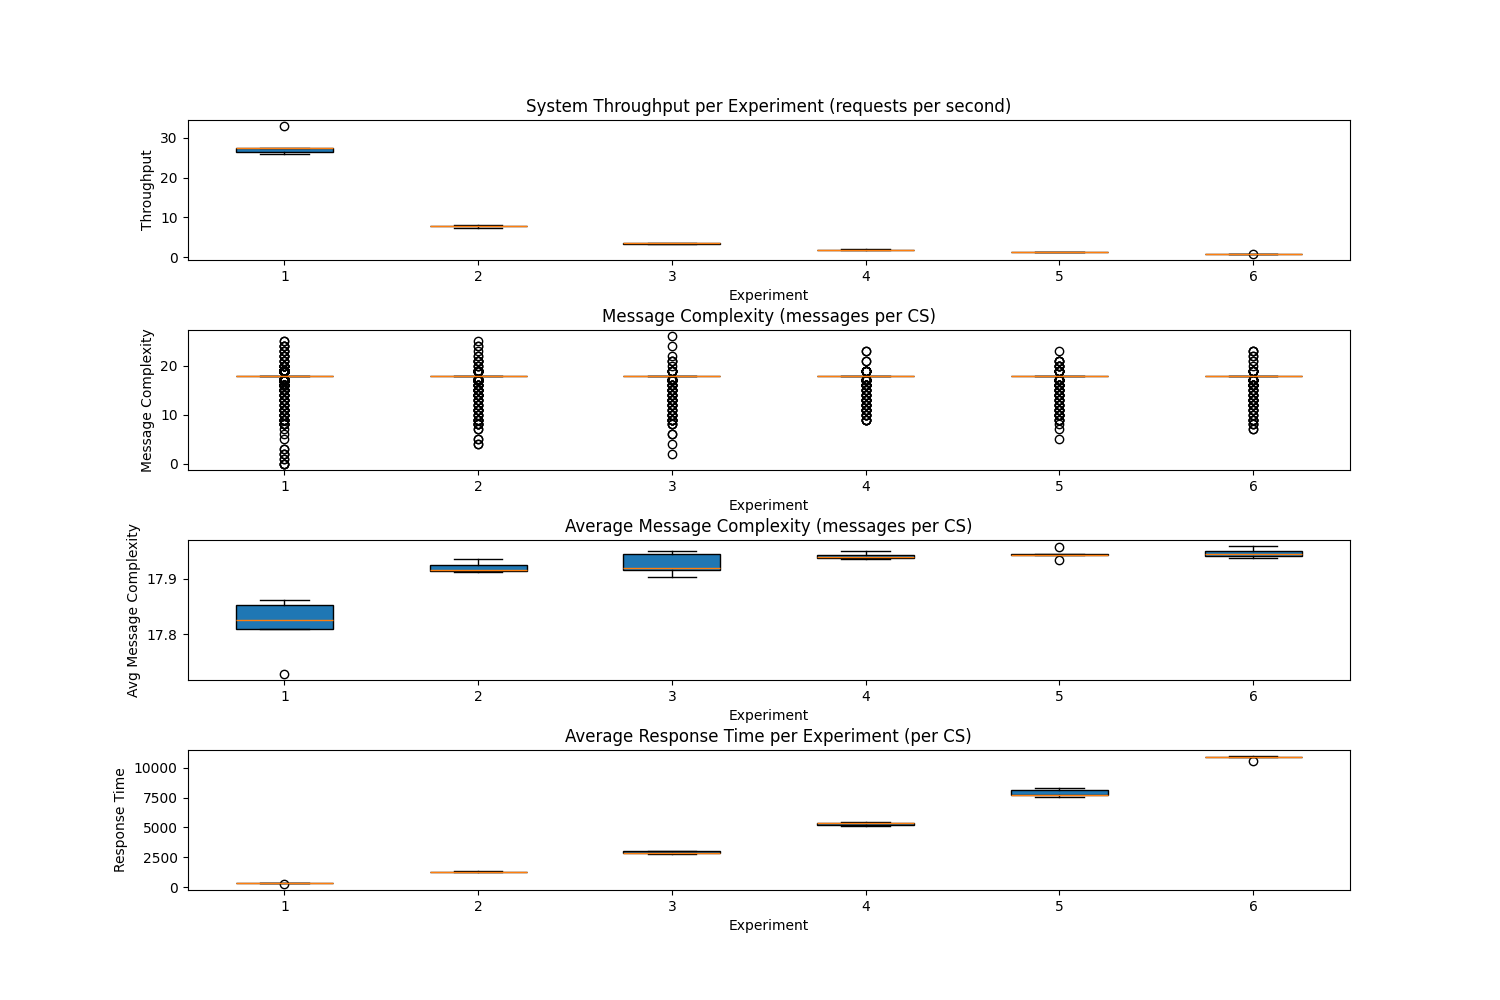
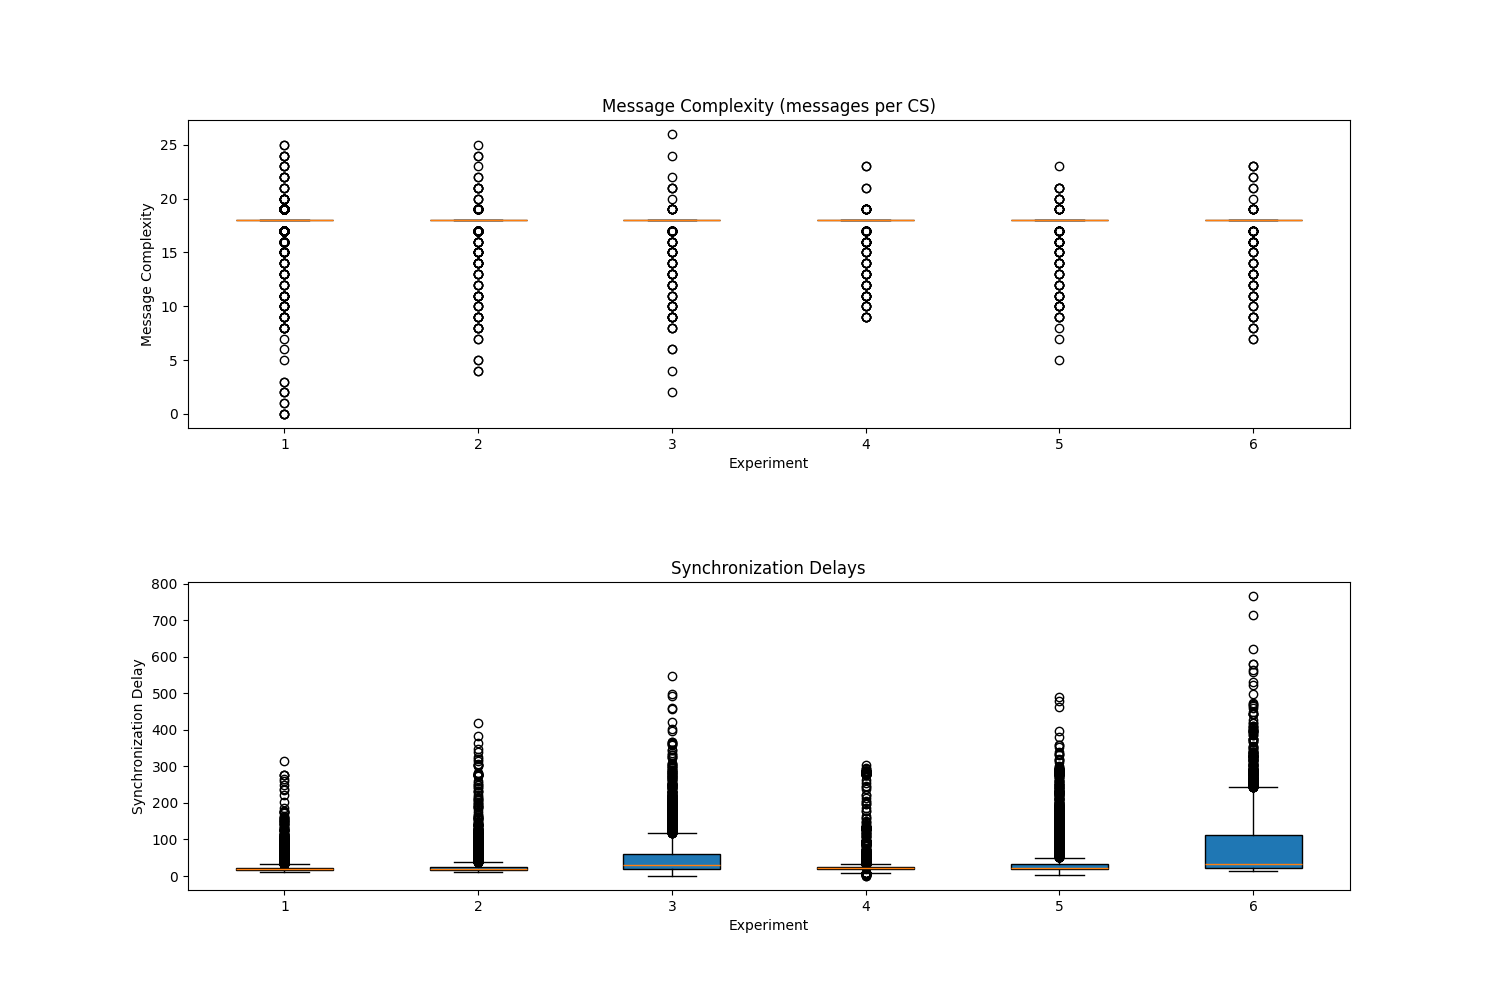
added experiments with varying inter request delay

diff --git a/log_analysis/graph.py b/log_analysis/graph.py
@@ -6,7 +6,8 @@ from collections import defaultdict
 
 def process_file(file_path):
     pattern = (r"Run: (\d+)|System Throughput: ([\d.]+) requests per second|Average Message Complexity: ([\d.]+) "
-               r"messages per CS|Average Response Time: ([\d.]+) milliseconds per CS|Messages: (.+)")
+               r"messages per CS|Average Response Time: ([\d.]+) milliseconds per CS|Messages: (.+)|"
+               r"Average Synchronization Delay: ([\d.]+) milliseconds|SyncDelays: (.+)")
 
     data = defaultdict(dict)
     with open(file_path, 'r') as file:
@@ -24,11 +25,16 @@ def process_file(file_path):
                 elif match.group(5):  # Messages
                     messages = list(map(int, match.group(5).split()))
                     data[current_run]['Messages'] = messages
+                elif match.group(6):  # Average Synchronization Delay
+                    data[current_run]['Average Synchronization Delay'] = float(match.group(6))
+                elif match.group(7):  # Sync delays
+                    delays = list(map(int, match.group(7).split()))
+                    data[current_run]['SyncDelays'] = delays
 
     return data
 
 
-def save_line_charts(_experiment_data):
+def save_line_charts(_experiment_data, xlabel='mean CS execution time'):
     # Extracting metrics from the data
     avg_throughput = [np.mean([run_data['System Throughput'] for run_data in exp_data.values()])
                       for exp_data in _experiment_data]
@@ -36,6 +42,8 @@ def save_line_charts(_experiment_data):
                               for exp_data in _experiment_data]
     avg_response_time = [np.mean([run_data['Average Response Time'] for run_data in exp_data.values()])
                          for exp_data in _experiment_data]
+    avg_synch_delay = [np.mean([run_data['Average Synchronization Delay'] for run_data in exp_data.values()])
+                       for exp_data in _experiment_data]
 
     exps = [10, 100, 250, 500, 750, 1000]
 
@@ -43,30 +51,45 @@ def save_line_charts(_experiment_data):
     plt.figure(figsize=(15, 5))
 
     # System Throughput Line Chart
-    plt.subplot(1, 3, 1)
+    plt.subplot(2, 1, 1)
     plt.plot(exps, avg_throughput, marker='o', color='b')
     plt.title('System Throughput (requests per second)')
-    plt.xlabel('mean CS execution time')
+    plt.xlabel(xlabel)
     plt.ylabel('Throughput')
 
     # Average Message Complexity Line Chart
-    plt.subplot(1, 3, 2)
+    plt.subplot(2, 1, 2)
     plt.plot(exps, avg_message_complexity, marker='o', color='g')
     plt.title('Average Message Complexity (messages per CS)')
-    plt.xlabel('mean CS execution time')
+    plt.xlabel(xlabel)
     plt.ylabel('Message Complexity')
-
-    # Average Response Time Line Chart
-    plt.subplot(1, 3, 3)
-    plt.plot(exps, avg_response_time, marker='o', color='r')
-    plt.title('Average Response Time (per CS)')
-    plt.xlabel('mean CS execution time')
-    plt.ylabel('Response Time')
 
     plt.subplots_adjust(hspace=0.5)
 
     # Save the figure
-    plt.savefig('./results/line_charts.png')
+    plt.savefig('./results/line_charts_1_d.png')
+    plt.close()
+
+    plt.figure(figsize=(15, 5))
+
+    # Average Response Time Line Chart
+    plt.subplot(2, 1, 1)
+    plt.plot(exps, avg_response_time, marker='o', color='r')
+    plt.title('Average Response Time (per CS)')
+    plt.xlabel(xlabel)
+    plt.ylabel('Response Time')
+
+    # Average Sync Delay Line Chart
+    plt.subplot(2, 1, 2)
+    plt.plot(exps, avg_synch_delay, marker='o', color='r')
+    plt.title('Average Synchronization Delay')
+    plt.xlabel(xlabel)
+    plt.ylabel('Synchronization Delay')
+
+    plt.subplots_adjust(hspace=0.5)
+
+    # Save the figure
+    plt.savefig('./results/line_charts_2_d.png')
     plt.close()
 
 
@@ -74,17 +97,8 @@ def save_box_plots(_experiment_data):
     # Creating the box plots
     plt.figure(figsize=(15, 10))
 
-    # System Throughput Box Plot
-    plt.subplot(4, 1, 1)
-    throughput_data = [[run_data['System Throughput'] for run_data in exp_data.values()]
-                       for exp_data in _experiment_data]
-    plt.boxplot(throughput_data, patch_artist=True)
-    plt.title('System Throughput per Experiment (requests per second)')
-    plt.xlabel('Experiment')
-    plt.ylabel('Throughput')
-
     # Message Complexity Box Plot
-    plt.subplot(4, 1, 2)
+    plt.subplot(2, 1, 1)
     message_complexity_data = []
     for exp_data in _experiment_data:
         te = []
@@ -98,35 +112,31 @@ def save_box_plots(_experiment_data):
     plt.xlabel('Experiment')
     plt.ylabel('Message Complexity')
 
-    # Message Complexity Box Plot
-    plt.subplot(4, 1, 3)
-    message_complexity_data = [[run_data['Average Message Complexity'] for run_data in exp_data.values()]
-                               for exp_data in _experiment_data]
-    plt.boxplot(message_complexity_data, patch_artist=True)
-    plt.title('Average Message Complexity (messages per CS)')
-    plt.xlabel('Experiment')
-    plt.ylabel('Avg Message Complexity')
+    plt.subplot(2, 1, 2)
+    sync_delay_data = []
+    for exp_data in _experiment_data:
+        te = []
+        for run_data in exp_data.values():
+            te += run_data['SyncDelays']
 
-    # Average Response Time Box Plot
-    plt.subplot(4, 1, 4)
-    response_time_data = [[run_data['Average Response Time'] for run_data in exp_data.values()]
-                          for exp_data in _experiment_data]
-    plt.boxplot(response_time_data, patch_artist=True)
-    plt.title('Average Response Time per Experiment (per CS)')
+        sync_delay_data.append(te)
+
+    plt.boxplot(sync_delay_data, patch_artist=True)
+    plt.title('Synchronization Delays')
     plt.xlabel('Experiment')
-    plt.ylabel('Response Time')
+    plt.ylabel('Synchronization Delay')
 
     plt.subplots_adjust(hspace=0.5)
 
     # Save the figure
-    plt.savefig('./results/box_plots.png')
+    plt.savefig('./results/box_plots_d.png')
     plt.close()
 
 
 experiment_data = []
 
 for i in range(0, 6):
-    experiment_data.append(process_file(f"./results/config{i}.txt" if i != 0 else "./results/config.txt"))
+    experiment_data.append(process_file(f"./results/configd_{i}.txt" if i != 0 else "./results/config.txt"))
 
-save_line_charts(experiment_data)
+save_line_charts(experiment_data, 'mean inter req delay')
 save_box_plots(experiment_data)

diff --git a/log_analysis/main.py b/log_analysis/main.py
@@ -32,7 +32,7 @@ class NodeData:
         t += f"Previous Run Details - Prev CS End Timestamp: {self.prev_run_details.prev_cs_end_timestamp}\n"
         t += f"Response Time: {self.response_time}\n"
         t += f"CS Execution Time: {self.cs_execution_time}\n"
-        t += f"Synchronous Delay: {self.synchronous_delay}\n"
+        t += f"Synchronization Delay: {self.synchronous_delay}\n"
         t += "------------------------------\n"
 
         return t
@@ -161,6 +161,8 @@ if __name__ == '__main__':
     system_throughput = calculate_throughput(node_data_list)
     avg_msg_complexity = sum(node_data.messages_exchanged for node_data in node_data_list) / len(node_data_list)
     avg_response_time = sum(node_data.response_time for node_data in node_data_list) / len(node_data_list)
+    avg_synchronous_delay = sum(node_data.synchronous_delay for node_data in node_data_list
+                                if node_data.prev_run_details.cs_count != -1) / len(node_data_list)
 
     config = directory.split('/')[-2]
     run = int(directory.split('/')[-1])
@@ -170,6 +172,9 @@ if __name__ == '__main__':
     s += f"Average Message Complexity: {avg_msg_complexity} messages per CS\n"
     s += f"Average Response Time: {avg_response_time} milliseconds per CS\n"
     s += "Messages: " + " ".join([str(node_data.messages_exchanged) for node_data in node_data_list]) + "\n"
+    s += "Average Synchronization Delay: " + str(avg_synchronous_delay) + " milliseconds\n"
+    s += "SyncDelays: " + " ".join([str(node_data.synchronous_delay) for node_data in node_data_list
+                                  if node_data.prev_run_details.cs_count != -1]) + "\n"
 
     file_name = f"./{config}.txt"
     with open(file_name, 'w' if run == 1 else 'a') as file:

diff --git a/src/main/java/com/advos/utils/Node.java b/src/main/java/com/advos/utils/Node.java
@@ -132,7 +132,9 @@ public class Node {
     public void startAlgorithm() {
         ExponentialDistribution expDist = new ExponentialDistribution(this.config.getMeanInterRequestDelay());
         while(this.mutexManager.getCsCounter() < this.config.getMaxCsRequests()) {
-            MutualExclusionTesting.sleep((int) expDist.sample());
+            int t = (int) expDist.sample();
+            logger.info("Waiting for " + t + " ms");
+            MutualExclusionTesting.sleep(t);
 
             this.mutexManager.csEnter();
             this.mutexManager.executeCS();
